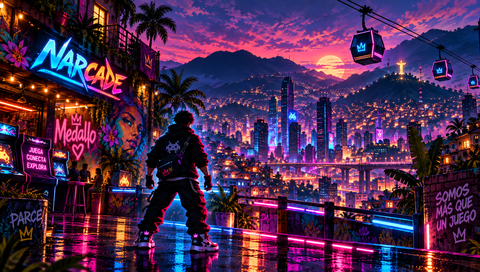
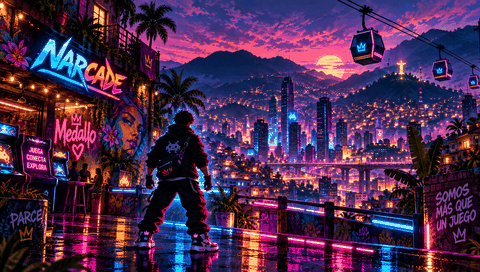
v1.2: swap NEXTFRAME antes del vblank, ISO con ELF estatico, PIC1 reducido, contorno del jugador

diff --git a/tools/package_iso.py b/tools/package_iso.py
@@ -6,12 +6,10 @@ stage=root/'build/umd';stage.mkdir(parents=True,exist_ok=True)
 (stage/'PSP_GAME/SYSDIR').mkdir(parents=True,exist_ok=True)
 (stage/'PSP_GAME/USRDIR').mkdir(exist_ok=True)
 subprocess.run(['mksfoex','-s','CATEGORY=UG','-s','DISC_ID=NARC00001','-s','DISC_VERSION=1.00','-s','PSP_SYSTEM_VER=6.00','-d','BOOTABLE=1','-d','PARENTAL_LEVEL=5','-d','REGION=32768','Narcade',str(stage/'PSP_GAME/PARAM.SFO')],check=True)
-# v1.1: el modo disco de la PSP exige un EBOOT.BIN firmado (~PSP). Se firma el PRX con el
-# port de PrxEncrypter (tools/prxencrypter.py, requiere pycryptodome) antes de meterlo en la ISO.
-import sys
-subprocess.run([sys.executable,str(root/'tools/prxencrypter.py'),str(root/'narcade.prx'),str(root/'build/EBOOT_signed.BIN'),str(root/'tools/psp_headers.h')],check=True)
-shutil.copy(root/'build/EBOOT_signed.BIN',stage/'PSP_GAME/SYSDIR/EBOOT.BIN')
-shutil.copy(root/'build/EBOOT_signed.BIN',stage/'PSP_GAME/SYSDIR/BOOT.BIN')
+# v1.2: el cargador de disco del CFW solo admite, ademas de ejecutables de UMD firmados, ELFs
+# ESTATICOS (asi funcionan los EBOOT.BIN "descifrados"). Se usa narcade_static.elf (make -f Makefile.iso).
+shutil.copy(root/'narcade_static.elf',stage/'PSP_GAME/SYSDIR/EBOOT.BIN')
+shutil.copy(root/'narcade_static.elf',stage/'PSP_GAME/SYSDIR/BOOT.BIN')
 shutil.copy(root/'assets/ICON0.png',stage/'PSP_GAME/ICON0.PNG')
 shutil.copy(root/'assets/PIC1.png',stage/'PSP_GAME/PIC1.PNG')
 (stage/'UMD_DATA.BIN').write_bytes(b'NARC-00001|E658BD244F5EED20|0001|G')
@@ -23,6 +21,6 @@ for d in ['/PSP_GAME','/PSP_GAME/SYSDIR','/PSP_GAME/USRDIR']:iso.add_directory(d
 for p in sorted(stage.rglob('*')):
  if p.is_file():iso.add_file(str(p),iso_path='/'+p.relative_to(stage).as_posix()+';1')
 out=root/'Narcade.iso';iso.write(str(out));iso.close()
-check=pycdlib.PyCdlib();check.open(str(out));buf=io.BytesIO();check.get_file_from_iso_fp(buf,iso_path='/PSP_GAME/SYSDIR/EBOOT.BIN;1');assert buf.getvalue()==(root/'build/EBOOT_signed.BIN').read_bytes();check.close()
+check=pycdlib.PyCdlib();check.open(str(out));buf=io.BytesIO();check.get_file_from_iso_fp(buf,iso_path='/PSP_GAME/SYSDIR/EBOOT.BIN;1');assert buf.getvalue()==(root/'narcade_static.elf').read_bytes();check.close()
 print(out.name,out.stat().st_size,'bytes; executable verified')
 print('SHA256',hashlib.sha256(out.read_bytes()).hexdigest())

diff --git a/src/psp_main.c b/src/psp_main.c
@@ -7,7 +7,7 @@
 #include <pspiofilemgr.h>
 #include <stdint.h>
 #include "game.h"
-PSP_MODULE_INFO("Narcade",0,1,1);
+PSP_MODULE_INFO("Narcade",0,1,2);
 PSP_MAIN_THREAD_ATTR(THREAD_ATTR_USER|THREAD_ATTR_VFPU);
 PSP_HEAP_SIZE_KB(4096);
 static volatile int running=1;
@@ -25,9 +25,10 @@ int main(void){
  uint64_t before=sceKernelGetSystemTimeWide();int index=0;
  while(running){SceCtrlData pad;sceCtrlPeekBufferPositive(&pad,1);uint64_t now=sceKernelGetSystemTimeWide();float dt=(now-before)/1000000.0f;before=now;
   game_tick(pad.Buttons,((float)pad.Lx-128)/127,((float)pad.Ly-128)/127,dt);game_draw(buffers[index],512);
-  /* v1.1.2: el buffer recien dibujado se muestra de inmediato tras el vblank (antes NEXTFRAME:
-     se empezaba a redibujar el buffer aun visible y parpadeaba en PSP real). */
-  sceDisplayWaitVblankStart();sceDisplaySetFrameBuf(buffers[index],512,PSP_DISPLAY_PIXEL_FORMAT_8888,PSP_DISPLAY_SETBUF_IMMEDIATE);index^=1;
+  /* v1.2: pedir el cambio de buffer ANTES de esperar el vblank: el cambio ocurre en ese vblank
+     y el siguiente fotograma se dibuja en el buffer ya oculto. (v1.0 esperaba primero y pedia
+     el cambio despues, asi que redibujaba el buffer aun visible: parpadeo en la parte superior.) */
+  sceDisplaySetFrameBuf(buffers[index],512,PSP_DISPLAY_PIXEL_FORMAT_8888,PSP_DISPLAY_SETBUF_NEXTFRAME);sceDisplayWaitVblankStart();index^=1;
  }
  game_save();pspAudioEnd();sceKernelExitGame();return 0;
 }

diff --git a/src/game.c b/src/game.c
@@ -277,7 +277,7 @@ static void car_draw(const Car *c,float ox,float oy,int chosen){
  }
  if(chosen)circle(x,y,2,LIME);
 }
-static void person_draw(float wx,float wy,float ox,float oy,int player,int n){int x=wx-ox,y=wy-oy;if(x<-10||y<-10||x>490||y>282)return;circle(x+2,y+4,5,RGB(27,36,37));rect(x-3,y-3,6,9,player?TEAL:carcolors[n%6]);rect(x-2,y+5,2,3,INK);rect(x+1,y+5,2,3,INK);circle(x,y-4,3,RGB(208,154,115));if(player)rect(x-2,y-7,5,2,INK);}
+static void person_draw(float wx,float wy,float ox,float oy,int player,int n){int x=wx-ox,y=wy-oy;if(x<-10||y<-10||x>490||y>282)return;circle(x+2,y+4,5,RGB(27,36,37));if(player){rect(x-5,y-9,10,15,INK);}rect(x-3,y-3,6,9,player?TEAL:carcolors[n%6]);rect(x-2,y+5,2,3,INK);rect(x+1,y+5,2,3,INK);circle(x,y-4,3,RGB(208,154,115));if(player)rect(x-2,y-7,5,2,INK);}
 static void tree(int x,int y,int n){rect(x-1,y,3,13,RGB(92,74,49));circle(x+3,y,13,RGB(27,59,49));circle(x-3,y-5,11,n%2?RGB(57,99,65):RGB(50,86,61));rect(x-5,y-10,4,2,RGB(105,139,83));}
 static void world_draw(void){
  float ox=clampf(g.x-240,0,WORLD_W-W),oy=clampf(g.y-137,0,WORLD_H-H);g.cameraX=ox;g.cameraY=oy;
